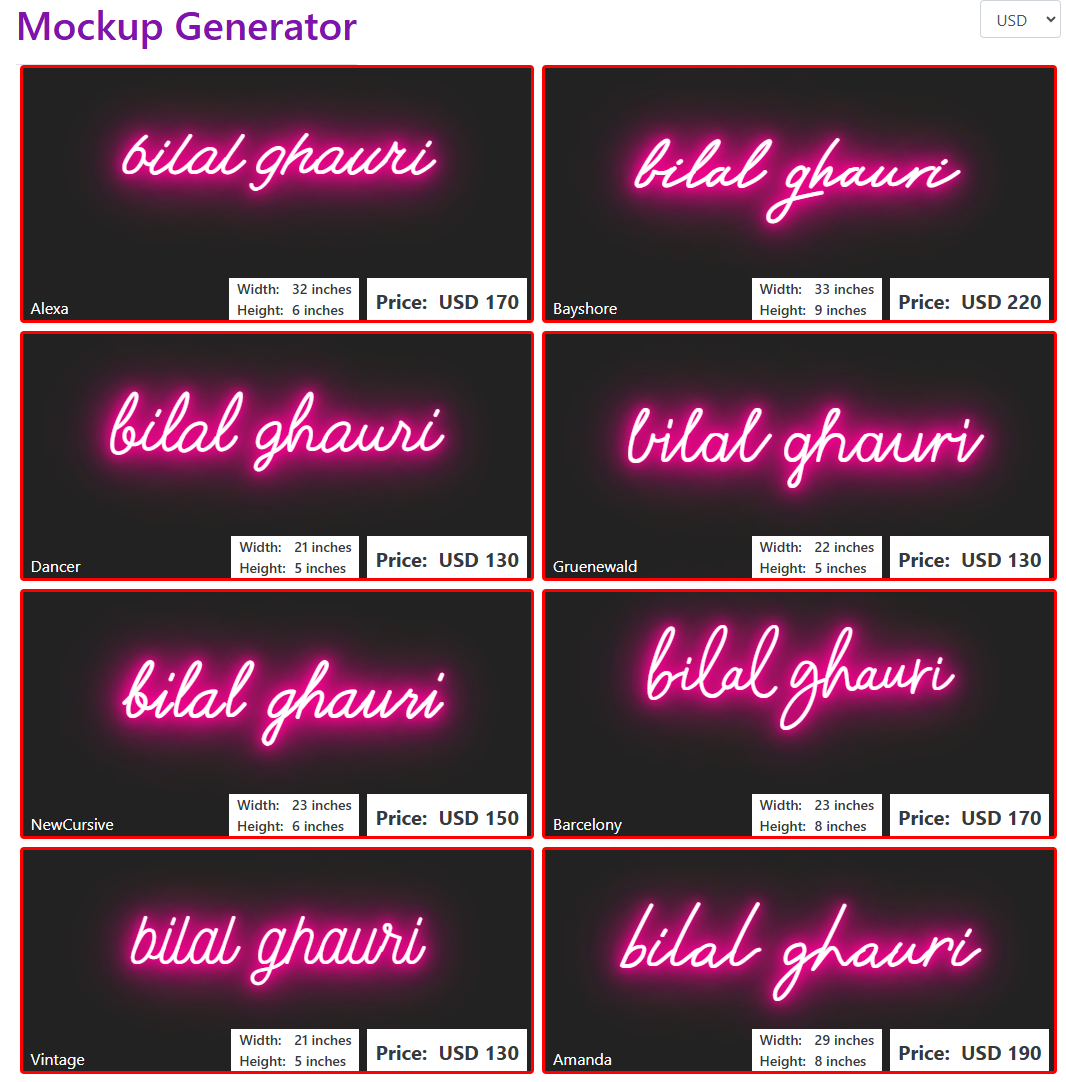
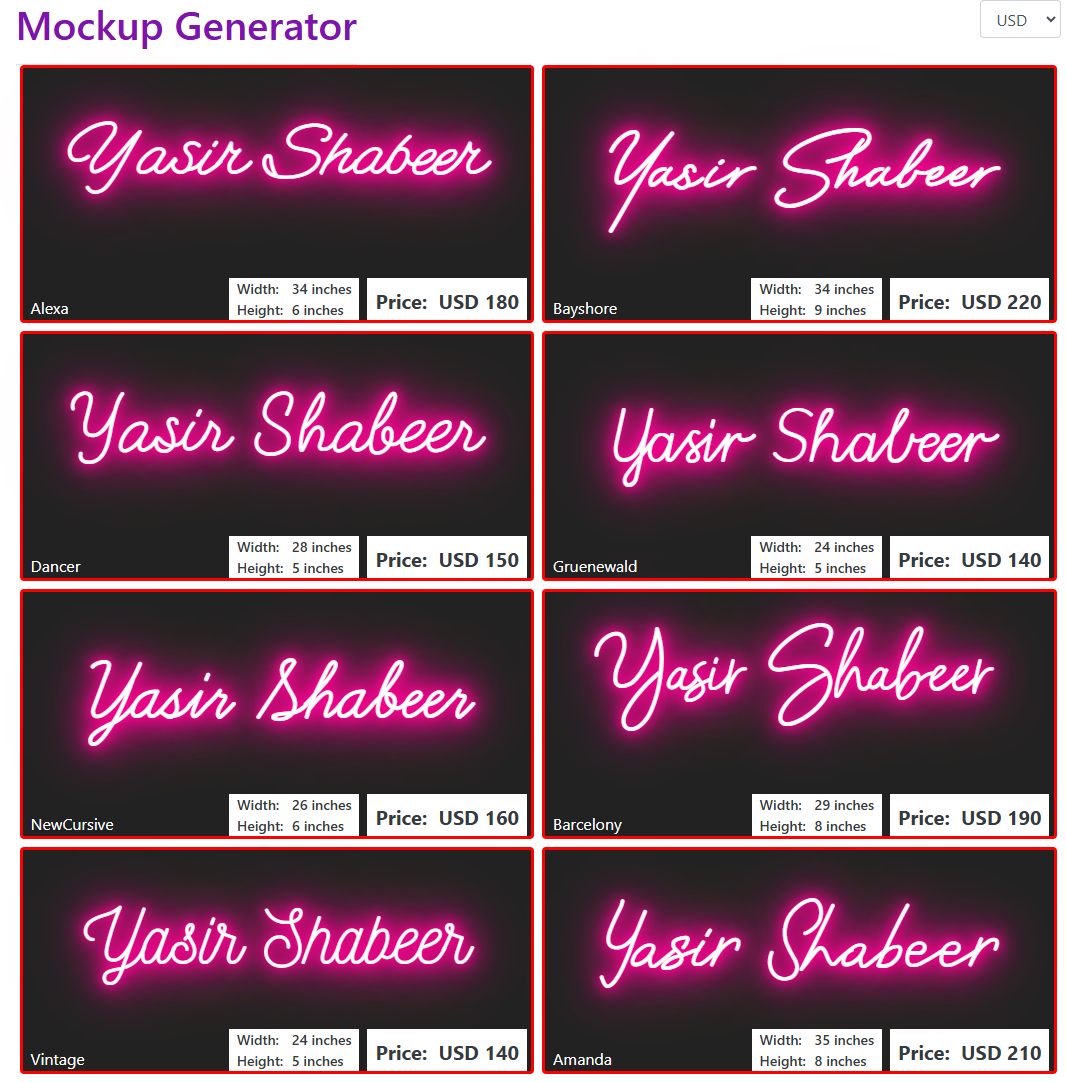
Added puppeteer for testing

diff --git a/index.js b/index.js
@@ -1,13 +1,12 @@
 const express = require("express");
 const app = express();
 const bodyParser = require("body-parser");
-const axios = require('axios')
+const axios = require("axios");
 app.use(bodyParser.json());
 app.use(express.json());
 
-
-const AIRTABLE_API_KEY = 'patnIFlyamWZtgthM.886ac387e5e38b76b059aa8c468abb0c7e7b3959917c7c993c619ce92c918057';
-
+const AIRTABLE_API_KEY =
+  "patnIFlyamWZtgthM.886ac387e5e38b76b059aa8c468abb0c7e7b3959917c7c993c619ce92c918057";
 
 async function fetchRecord(tableId, recordId, AIRTABLE_BASE_ID) {
   try {
@@ -22,7 +21,7 @@ async function fetchRecord(tableId, recordId, AIRTABLE_BASE_ID) {
     return response.data;
   } catch (error) {
     // handleError(error);
-    console.log(error)
+    console.log(error);
 
     throw error;
   }
@@ -71,7 +70,7 @@ async function fetchSpecificPayload(baseId, webhookId, timestamp) {
     return null;
   } catch (error) {
     // handleError(error);
-    console.log(error)
+    console.log(error);
     throw error;
   }
 }
@@ -130,6 +129,9 @@ async function processWebhook(req, res) {
           baseId
         );
         console.log("Fetched record details:", recordDetails);
+        const mockupText = recordDetails?.fields?.["Mokcup Text"];
+        console.log("mockupText", mockupText);
+        await runPup(mockupText);
       } catch (error) {
         console.error(`Failed to fetch record ${recordId}:`, error);
       }
@@ -154,71 +156,75 @@ const waitForSeconds = (seconds) => {
   return new Promise((resolve) => setTimeout(resolve, seconds * 1000));
 };
 
-const runPup = async () => {
-  const browser = await puppeteer.launch({ headless: false });
-  const page = await browser.newPage();
+const runPup = async (text) => {
+  try {
+    const browser = await puppeteer.launch({ headless: false });
+    const page = await browser.newPage();
 
-  await page.goto("https://mockup.epiccraftings.com/");
-  await page.setViewport({ width: 1900, height: 1024 });
+    await page.goto("https://mockup.epiccraftings.com/");
+    await page.setViewport({ width: 1900, height: 1024 });
 
-  await page.waitForSelector(".form-control.txt_area_1");
+    await page.waitForSelector(".form-control.txt_area_1");
 
-  await page.evaluate(() => {
-    const textarea = document.querySelector(".form-control.txt_area_1");
-    if (textarea) textarea.value = "";
-  });
-
-  await page.type(".form-control.txt_area_1", "bilal ghauri");
-
-  await page.evaluate(async () => {
-    // Get all divs with the class 'font-div' and filter those with the 'data-path' attribute
-    let fontDivs = Array.from(
-      document.querySelectorAll("div.font-div[data-path]")
-    );
-    fontDivs = fontDivs.slice(1, 8);
-    fontDivs.forEach((div) => div.click());
-  });
-
-  //   await page.evaluate(() => {
-  //     const findSection = document.querySelector('section.bg-white.px-1')
-  //     if(findSection){
-  //         findSection.remove()
-  //     }
-  //   });
-
-  //   await waitForSeconds(2);
-
-  await page.waitForSelector("#takeScreenShoot");
-
-  // Get the bounding box of the div with the ID 'takeScreenShoot'
-  const clip = await page.evaluate(() => {
-    const element = document.querySelector("#takeScreenShoot");
-    if (element) {
-      const { x, y, width, height } = element.getBoundingClientRect();
-      return { x, y, width, height };
-    }
-    return null;
-  });
-
-  if (clip) {
-    await waitForSeconds(2);
-    await page.screenshot({
-      path: "div_screenshot.png",
-      clip,
+    await page.evaluate(() => {
+      const textarea = document.querySelector(".form-control.txt_area_1");
+      if (textarea) textarea.value = "";
     });
 
-    console.log(
-      "Screenshot of #takeScreenShoot saved as 'div_screenshot.png'."
-    );
-  } else {
-    console.error("Element with ID 'takeScreenShoot' not found.");
+    await page.type(".form-control.txt_area_1", text);
+
+    await page.evaluate(async () => {
+      // Get all divs with the class 'font-div' and filter those with the 'data-path' attribute
+      let fontDivs = Array.from(
+        document.querySelectorAll("div.font-div[data-path]")
+      );
+      fontDivs = fontDivs.slice(1, 8);
+      fontDivs.forEach((div) => div.click());
+    });
+
+    //   await page.evaluate(() => {
+    //     const findSection = document.querySelector('section.bg-white.px-1')
+    //     if(findSection){
+    //         findSection.remove()
+    //     }
+    //   });
+
+    //   await waitForSeconds(2);
+
+    await page.waitForSelector("#takeScreenShoot");
+
+    // Get the bounding box of the div with the ID 'takeScreenShoot'
+    const clip = await page.evaluate(() => {
+      const element = document.querySelector("#takeScreenShoot");
+      if (element) {
+        const { x, y, width, height } = element.getBoundingClientRect();
+        return { x, y, width, height };
+      }
+      return null;
+    });
+
+    if (clip) {
+      await waitForSeconds(2);
+      await page.screenshot({
+        path: "div_screenshot.png",
+        clip,
+      });
+
+      console.log(
+        "Screenshot of #takeScreenShoot saved as 'div_screenshot.png'."
+      );
+    } else {
+      console.error("Element with ID 'takeScreenShoot' not found.");
+    }
+
+    //   await page.screenshot({ path: `screenshot_dfdsfs.png`, fullPage: true });
+
+    await waitForSeconds(100);
+
+    await browser.close();
+  } catch (error) {
+    console.log("Puppeteer error", error);
   }
-
-  //   await page.screenshot({ path: `screenshot_dfdsfs.png`, fullPage: true });
-
-  await waitForSeconds(100);
-
-  await browser.close();
 };
 
 // runPup();
